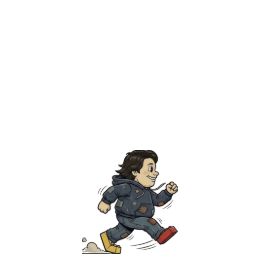
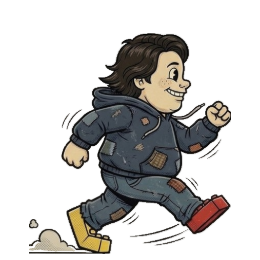
Arregla el tamano de los ninos, las baneras hundidas y los ojos al reves
Los tres fallos que salieron en la prueba de Daniel:

1. El nino cambiaba de tamano al echar a andar. Cada pose se escalaba con un
   factor comun para todo el personaje, pero en la hoja de carrera el muneco
   esta dibujado 2,4 veces mas pequeno que en la imagen suelta de estar quieto:
   Martain media 240 px parado y 100 corriendo. Ahora el factor es por archivo
   de origen, que es donde manda el encuadre del dibujante, y dentro de cada
   hoja se conservan las diferencias, que ahi si son la animacion.

2. Las baneras se hundian en el suelo o caminaban por el aire. Se colocaban
   centradas en su casilla de 32 px, lo que daba igual mientras midieran 32;
   al crecer hasta la altura de los ninos, su caja acababa 25 px por debajo del
   suelo. Ahora se apoyan en el suelo de su casilla, como el jefe. Ademas las
   poses se alinean por el pie del muneco y no por el borde del dibujo, que
   incluye la sombra y la salpicadura.

3. Los ojos miraban al reves. Los dibujos de la banera, de la paloma y las
   pupilas del jefe miran a la derecha, asi que hay que voltearlos al ir hacia
   la izquierda, no al reves.

Al verificarlo salieron dos cosas mas que dejaban el juego encallado:

- Los 21 huecos de tres casillas de los cinco tableros eran saltos imposibles.
  El salto da 131 px y el hueco mide 96, pero el nino ocupa 30 mas: la ventana
  para despegar quedaba en 10 px. Pasan a dos casillas, y validar-niveles.mjs
[…]

diff --git a/src/escenas/EscenaNivel.js b/src/escenas/EscenaNivel.js
@@ -8,7 +8,7 @@
 // ---------------------------------------------------------------------------
 
 import Phaser from 'phaser';
-import { AGUA, CAMARA, JEFE, LANZAMIENTO, MUNDO, PALOMA, PUNTOS } from '../config/ajustes.js';
+import { AGUA, CAMARA, ENEMIGO, JEFE, LANZAMIENTO, MUNDO, PALOMA, PUNTOS } from '../config/ajustes.js';
 import { COLORES, TEXTURAS } from '../config/estilo.js';
 import { PERSONAJES } from '../config/personajes.js';
 import { Controles, PERFILES } from '../sistemas/controles.js';
@@ -142,6 +142,9 @@ export class EscenaNivel extends Phaser.Scene {
     // lo que tiran los bichos hace dano al nino y se deshace contra el suelo
     this.jugadores.forEach((jugador) => {
       this.physics.add.overlap(jugador, this.peligros, (j, p) => {
+        // mientras parpadea no se le vuelve a dar: si no, un chorro encadenaba
+        // varios golpes en fotogramas seguidos
+        if (jugador.estaCongelado) return;
         this.romperPeligro(this.peligros.contains(j) ? j : p);
         this.herirJugador(jugador);
       });
@@ -236,8 +239,12 @@ export class EscenaNivel extends Phaser.Scene {
   tocarEnemigo(jugador, enemigo) {
     if (!enemigo.active || jugador.estaCongelado) return;
 
+    // Si viene cayendo y sus pies estan en la mitad de arriba del bicho, lo
+    // aplasta. Antes se pedian 16 px justos desde la coronilla: con los bichos
+    // a la altura de los ninos era casi imposible acertar, y el salto acababa
+    // en choque de lado una y otra vez.
     const cayendo = jugador.body.velocity.y > 30;
-    const porEncima = jugador.body.bottom <= enemigo.body.top + 16;
+    const porEncima = jugador.body.bottom <= enemigo.body.top + enemigo.body.height * 0.5;
 
     if (cayendo && porEncima) {
       this.eliminarEnemigo(enemigo);
@@ -249,6 +256,27 @@ export class EscenaNivel extends Phaser.Scene {
 
   // Un golpe no quita vidas (no hay), pero cuesta monedas. El marcador final es
   // lo que has ganado menos lo que te ha costado llegar.
+  // Al volver al checkpoint se le despeja el terreno: se borra el agua y lo que
+  // haya en vuelo, y los bichos que alcanzan hasta alli se toman un respiro.
+  //
+  // Sin esto el juego se atasca: los bichos tiran agua desde bastante lejos, y
+  // con un checkpoint a su alcance el nino reaparecia justo para recibir el
+  // siguiente chorro, una y otra vez. En un juego sin vidas eso es un callejon
+  // sin salida, no una dificultad.
+  despejarAlReaparecer(jugador) {
+    this.peligros.getChildren().forEach((peligro) => {
+      if (peligro.active) this.romperPeligro(peligro, false);
+    });
+
+    const respiro = ENEMIGO.ataque.avisoMs + ENEMIGO.ataque.lanzandoMs + 900;
+    this.enemigos.getChildren().forEach((bicho) => {
+      if (!bicho.active) return;
+      if (Math.abs(bicho.x - jugador.x) > ENEMIGO.ataque.distanciaMaxima + 120) return;
+      bicho.estado = 'anda';
+      bicho.proximoAtaque = bicho.reloj + respiro;
+    });
+  }
+
   herirJugador(jugador) {
     if (!jugador.herir()) return false;
 
@@ -327,8 +355,9 @@ export class EscenaNivel extends Phaser.Scene {
   tocarJefe(jugador, jefe) {
     if (!jefe.active || jugador.estaCongelado) return;
 
+    // mismo criterio generoso que con los bichos
     const cayendo = jugador.body.velocity.y > 30;
-    const porEncima = jugador.body.bottom <= jefe.body.top + 20;
+    const porEncima = jugador.body.bottom <= jefe.body.top + jefe.body.height * 0.4;
 
     if (cayendo && porEncima) {
       jugador.body.velocity.y = -JEFE.reboteJugador;

diff --git a/src/sistemas/constructor-nivel.js b/src/sistemas/constructor-nivel.js
@@ -4,7 +4,7 @@
 // Es el unico sitio que sabe que significa cada simbolo.
 // ---------------------------------------------------------------------------
 
-import { JEFE, MUNDO } from '../config/ajustes.js';
+import { ENEMIGO, JEFE, MUNDO } from '../config/ajustes.js';
 import { COLORES, FUENTE, TEXTURAS } from '../config/estilo.js';
 import { Enemigo } from '../entidades/Enemigo.js';
 import { Jefe } from '../entidades/Jefe.js';
@@ -155,7 +155,13 @@ export function construirNivel(escena, nivel, opciones = {}) {
         }
 
         case SIMBOLOS.ENEMIGO: {
-          const enemigo = new Enemigo(escena, x, y, col % 2 === 0 ? -1 : 1);
+          // Apoyado en el suelo de su casilla, igual que el jefe. Antes se
+          // ponia centrado en la casilla, que es lo mismo mientras el bicho
+          // mida 32; al crecer hasta la altura de los ninos, su caja acababa
+          // 25 px por debajo del suelo y la fisica lo dejaba medio enterrado o
+          // lo escupia a caminar por el aire.
+          const apoyo = baseY(fila) - ENEMIGO.alto / 2 + (ENEMIGO.margenPie || 0);
+          const enemigo = new Enemigo(escena, x, apoyo, col % 2 === 0 ? -1 : 1);
           enemigos.add(enemigo);
           break;
         }

diff --git a/src/config/ajustes.js b/src/config/ajustes.js
@@ -106,7 +106,14 @@ export const ENEMIGO = {
   // darles y no dan ningun respeto.
   ancho: 96,
   alto: 86,
-  caja: { ancho: 62, alto: 72 },
+  // La caja va bastante por dentro del dibujo. La banera se dibuja de la
+  // altura de un nino, pero si la caja midiera lo mismo que el dibujo seria
+  // mas alta que el propio nino y saltarla quedaria al filo: se chocaba de
+  // lado una y otra vez en vez de aplastarla.
+  caja: { ancho: 54, alto: 60 },
+  // el dibujo no llega hasta el borde de abajo del lienzo: se apoya un poco
+  // antes. Sin esto la banera se hunde en el suelo.
+  margenPie: 2,
 
   // De vez en cuando la banera se planta, se agacha y salta tirando agua con
   // jabon. Cuanto mas avanzada la partida, mas a menudo lo hace.
@@ -134,6 +141,11 @@ export const AGUA = {
 
 // La paloma pasa volando por la franja de arriba y suelta lo que suelta.
 export const PALOMA = {
+  // cuadrado, como el lienzo del dibujo: con un rectangulo la paloma salia
+  // aplastada
+  ancho: 92,
+  alto: 92,
+  caja: { ancho: 56, alto: 40 },
   velocidad: 130,
   alturaMinFila: 0.4,   // por que parte de la franja alta vuela
   alturaMaxFila: 2.2,

diff --git a/src/entidades/Enemigo.js b/src/entidades/Enemigo.js
@@ -39,12 +39,14 @@ export class Enemigo extends Phaser.Physics.Arcade.Sprite {
     this.body.setSize(ENEMIGO.caja.ancho / escalaX, ENEMIGO.caja.alto / escalaY, false);
     this.body.setOffset(
       (ENEMIGO.ancho - ENEMIGO.caja.ancho) / 2 / escalaX,
-      (ENEMIGO.alto - ENEMIGO.caja.alto) / escalaY,
+      (ENEMIGO.alto - ENEMIGO.caja.alto - (ENEMIGO.margenPie || 0)) / escalaY,
     );
     this.body.setMaxVelocity(200, 900);
 
     this.direccion = direccion;
-    this.setFlipX(direccion > 0);
+    // el dibujo viene mirando a la derecha, asi que se voltea al ir a la
+    // izquierda; al reves salia andando de espaldas
+    this.setFlipX(direccion < 0);
 
     // --- estado del ataque ---
     this.estado = 'anda';
@@ -67,7 +69,7 @@ export class Enemigo extends Phaser.Physics.Arcade.Sprite {
 
   girar(nuevaDireccion) {
     this.direccion = nuevaDireccion;
-    this.setFlipX(nuevaDireccion > 0);
+    this.setFlipX(nuevaDireccion < 0);
   }
 
   // Solo se lanza si el nino esta cerca y hacia donde mira.

diff --git a/src/entidades/Paloma.js b/src/entidades/Paloma.js
@@ -29,12 +29,18 @@ export class Paloma extends Phaser.Physics.Arcade.Sprite {
     escena.add.existing(this);
     escena.physics.add.existing(this);
 
-    this.setDisplaySize(84, 60).setDepth(8);
+    this.setDisplaySize(PALOMA.ancho, PALOMA.alto).setDepth(8);
     this.body.setAllowGravity(false);
-    this.body.setSize(this.width * 0.7, this.height * 0.6, true);
+
+    // la caja se mide en pixeles de la textura y luego se escala
+    const escalaX = this.scaleX || 1;
+    const escalaY = this.scaleY || 1;
+    this.body.setSize(PALOMA.caja.ancho / escalaX, PALOMA.caja.alto / escalaY, true);
 
     this.direccion = direccion;
-    this.setFlipX(direccion > 0);
+    // el dibujo viene mirando a la derecha: se voltea solo al volar hacia la
+    // izquierda. Al reves las palomas cruzaban la pantalla de espaldas.
+    this.setFlipX(direccion < 0);
     this.body.velocity.x = direccion * PALOMA.velocidad;
 
     this.reloj = 0;

diff --git a/src/niveles/nivel4.js b/src/niveles/nivel4.js
@@ -39,8 +39,8 @@ export const NIVEL_4 = {
   '.......====.....C..====.......C..====.......C..=====......C..=====......C..====.......C.===........#', //  6
   '...............C.C...........C.C...........C.C...........C.C...........C.C...........C.C...........#', //  7
   '...P..CCC..E........CCC............E..CCC.......K..CCC........E...E.CC......CCC..E.......K....J...M#', //  8
-  '###############...###########...###########...###########...###########...###########...############', //  9
-  '###############...###########...###########...###########...###########...###########...############', // 10
+  '################..############..############..############..############..############..############', //  9
+  '################..############..############..############..############..############..############', // 10
   ],
 
   // Carteles de ayuda que aparecen flotando en el mundo (columna, fila, texto).

diff --git a/src/niveles/nivel5.js b/src/niveles/nivel5.js
@@ -39,8 +39,8 @@ export const NIVEL_5 = {
   '........====......C..=====........C....=====......C..=====......C..====.........C....===...........#', //  6
   '.................C.C.............C.C.............C.C...........C.C.............C.C.................#', //  7
   '...P..CCC...E.........CCC..E..........K..CCC..E.......E...E.CC......CCC..E.........K........J.....M#', //  8
-  '#################...#############...#############...###########...#############...##################', //  9
-  '#################...#############...#############...###########...#############...##################', // 10
+  '##################..##############..##############..############..##############..##################', //  9
+  '##################..##############..##############..############..##############..##################', // 10
   ],
 
   // Carteles de ayuda que aparecen flotando en el mundo (columna, fila, texto).

diff --git a/src/niveles/nivel2.js b/src/niveles/nivel2.js
@@ -39,8 +39,8 @@ export const NIVEL_2 = {
   '.........====.........C......=====........C....====.........C..====.........C...===........#', //  6
   '.....................C.C.................C.C...............C.C.............C.C.............#', //  7
   '...P..CCC.....E...........CCC..E..............K...E...E.CC......CCC..E.........K.....J....M#', //  8
-  '#####################...#################...###############...#############...##############', //  9
-  '#####################...#################...###############...#############...##############', // 10
+  '######################..##################..################..##############..##############', //  9
+  '######################..##################..################..##############..##############', // 10
   ],
 
   // Carteles de ayuda que aparecen flotando en el mundo (columna, fila, texto).

diff --git a/src/niveles/nivel3.js b/src/niveles/nivel3.js
@@ -39,8 +39,8 @@ export const NIVEL_3 = {
   '........====........C.....=====.......C.....=====.......C.....====........C....===.........#', //  6
   '...................C.C...............C.C...............C.C...............C.C...............#', //  7
   '...P..CCC..E...E........CCC..E...E........K..CCC..E.........CCC..E...E........K......J....M#', //  8
-  '###################...###############...###############...###############...################', //  9
-  '###################...###############...###############...###############...################', // 10
+  '####################..################..################..################..################', //  9
+  '####################..################..################..################..################', // 10
   ],
 
   // Carteles de ayuda que aparecen flotando en el mundo (columna, fila, texto).

diff --git a/src/niveles/nivel1.js b/src/niveles/nivel1.js
@@ -39,8 +39,8 @@ export const NIVEL_1 = {
   '............====.........C...====.......===....C....=====.........===...===........#', //  6
   '........................C.C...................C.C..............CC..................#', //  7
   '...P...CCC.........E.CC....................K......CC.E..E..CC..........K.....J....M#', //  8
-  '########################...###################...##############..###################', //  9
-  '########################...###################...##############..###################', // 10
+  '#########################..####################..##############..###################', //  9
+  '#########################..####################..##############..###################', // 10
   ],
 
   // Carteles de ayuda que aparecen flotando en el mundo (columna, fila, texto).

diff --git a/src/entidades/Jefe.js b/src/entidades/Jefe.js
@@ -31,7 +31,8 @@ export class Jefe extends Phaser.Physics.Arcade.Sprite {
     this.body.setMaxVelocity(260, 900);
 
     this.direccion = direccion;
-    this.setFlipX(direccion > 0);
+    // las pupilas del dibujo miran a la derecha: se voltea al ir a la izquierda
+    this.setFlipX(direccion < 0);
     this.setDepth(9);
 
     this.vidas = JEFE.vidas;
@@ -78,7 +79,7 @@ export class Jefe extends Phaser.Physics.Arcade.Sprite {
 
   girar(nuevaDireccion) {
     this.direccion = nuevaDireccion;
-    this.setFlipX(nuevaDireccion > 0);
+    this.setFlipX(nuevaDireccion < 0);
   }
 
   actualizar(delta) {

diff --git a/src/entidades/Jugador.js b/src/entidades/Jugador.js
@@ -251,6 +251,8 @@ export class Jugador extends Phaser.Physics.Arcade.Sprite {
     this.body.setAllowGravity(true);
     this.coyote = 0;
     this.buffer = 0;
+    // la escena le despeja el terreno: ver despejarAlReaparecer
+    if (this.escena.despejarAlReaparecer) this.escena.despejarAlReaparecer(this);
   }
 
   parpadear(duracion) {
